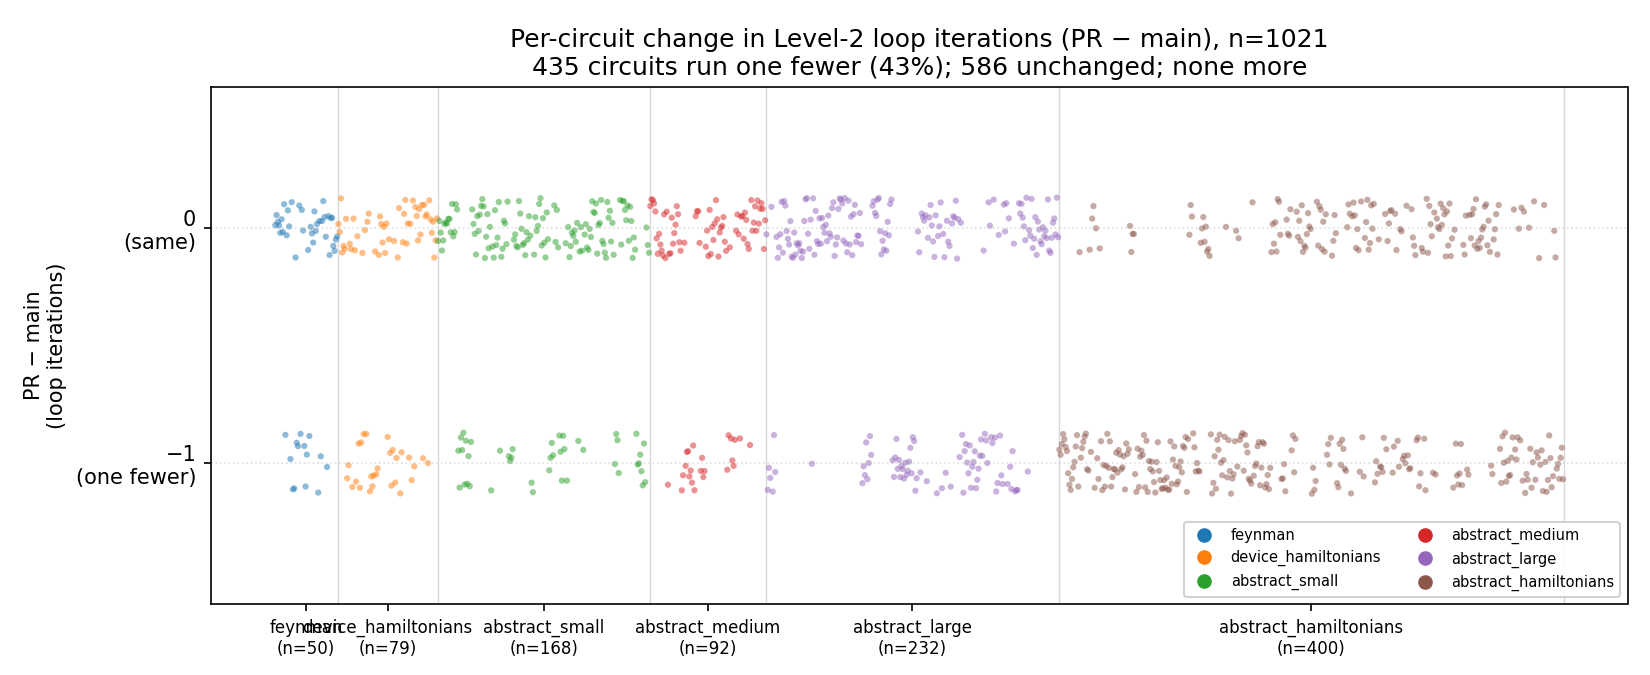
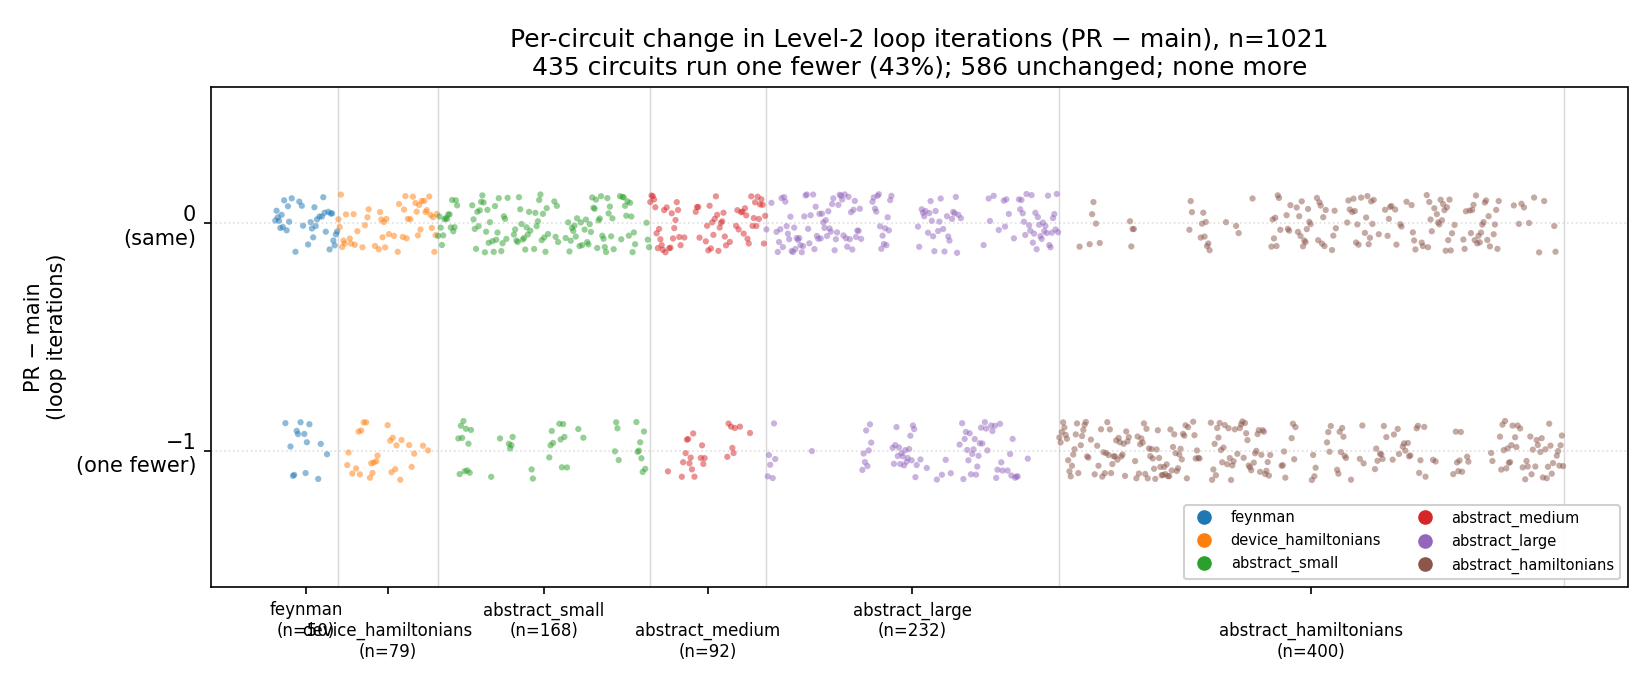
pr16157_rebased: stagger x-axis group labels in iteration_delta (fix overlap)

diff --git a/investigation/outputs/pr16157_rebased/scripts/plot_iter_delta.py b/investigation/outputs/pr16157_rebased/scripts/plot_iter_delta.py
@@ -48,7 +48,9 @@ for g in GROUPS:
     if not xs:
         continue
     xticks.append(sum(xs) / len(xs))
-    xlabels.append(f"{g}\n(n={len(xs)})")
+    # stagger every other label down a line so narrow neighbors don't overlap
+    prefix = "\n" if len(xlabels) % 2 == 1 else ""
+    xlabels.append(f"{prefix}{g}\n(n={len(xs)})")
     running = max(xs)
     ax.axvline(running + 0.5, color="0.85", lw=0.7, zorder=0)
 ax.set_yticks([0, -1])
